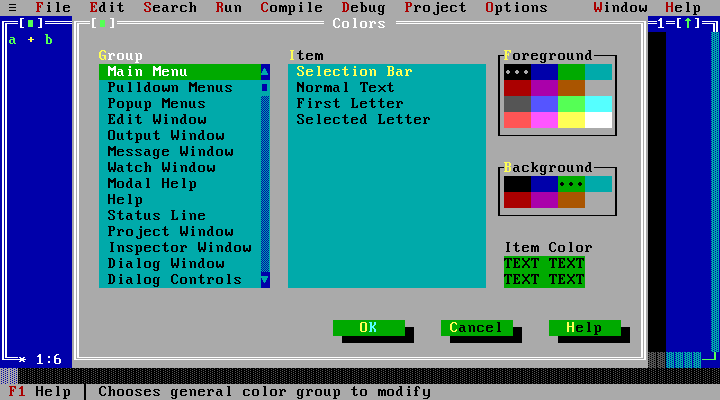
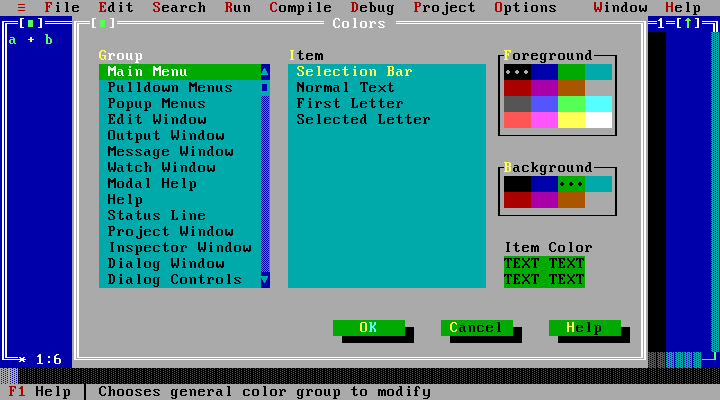
fix(ide): align menu captions with the reference grid (#28)
Aligns the menu bar's captions, selection regions, pointer targets and System
hotkey color with the independently transcribed original row. Popup origins and
the agreed 720x400, 9x16 target are retained.

Closes #27.

Changed region(s): [[0.0, 0.0, 0.7639, 0.03]]

diff --git a/src/ide/application.ts b/src/ide/application.ts
@@ -636,26 +636,7 @@ export class Application {
     } else {
       b.fill(0, 1, b.cols, b.rows - 2, '░', this.attr('desktop', 0x71));
       for (const window of this.windows) this.drawWindow(window, window === this.active);
-      b.fill(0, 0, b.cols, 1, ' ', this.attr('menu', 0x70));
-      menus.forEach((menu, index) => {
-        const selected =
-          this.menuStack[0]?.top === index ||
-          (this.menuFocused && this.menuStack.length === 0 && this.menuIndex === index);
-        const x = this.menuX(index);
-        const width = plain(menu.label).length + 2;
-        const attr = this.attr(selected ? 'selectedMenu' : 'menu', selected ? 0x20 : 0x70);
-        if (selected) b.fill(x, 0, width, 1, ' ', attr);
-        this.hotText(
-          x + 1,
-          0,
-          menu.label,
-          attr,
-          this.attr(
-            selected ? 'mainMenuSelectedLetter' : 'mainMenuFirstLetter',
-            selected ? 0x24 : 0x74,
-          ),
-        );
-      });
+      this.drawMenuBar();
       b.fill(0, b.rows - 1, b.cols, 1, ' ', this.attr('status', 0x70));
       let status = '~F1~ Help  ~F2~ Save  ~F3~ Open  ~Alt-F9~ Compile  ~F9~ Make  ~F10~ Menu';
       const selected = this.menuStack.at(-1);
@@ -986,6 +967,32 @@ export class Application {
     return index >= 9
       ? Math.max(menus[index].x, this.buffer.cols - (index === 9 ? 15 : 7))
       : menus[index].x;
+  }
+  private menuBarX(index: number): number {
+    // The original left-hand captions start one cell after their popup origin.
+    return this.menuX(index) + (index < 9 ? 1 : 0);
+  }
+  private drawMenuBar(): void {
+    const b = this.buffer;
+    b.fill(0, 0, b.cols, 1, ' ', this.attr('menu', 0x70));
+    menus.forEach((menu, index) => {
+      const selected =
+        this.menuStack[0]?.top === index ||
+        (this.menuFocused && this.menuStack.length === 0 && this.menuIndex === index);
+      const x = this.menuBarX(index);
+      const attr = this.attr(selected ? 'selectedMenu' : 'menu', selected ? 0x20 : 0x70);
+      if (selected) b.fill(x, 0, plain(menu.label).length + 2, 1, ' ', attr);
+      this.hotText(
+        x + 1,
+        0,
+        menu.label,
+        attr,
+        this.attr(
+          selected ? 'mainMenuSelectedLetter' : 'mainMenuFirstLetter',
+          selected ? 0x24 : 0x74,
+        ),
+      );
+    });
   }
   private openMenu(index: number): void {
     this.menuIndex = (index + menus.length) % menus.length;
@@ -3263,7 +3270,7 @@ export class Application {
     if (y === 0) {
       let selected = -1;
       menus.forEach((menu, index) => {
-        if (x >= this.menuX(index) && x < this.menuX(index) + plain(menu.label).length + 2)
+        if (x >= this.menuBarX(index) && x < this.menuBarX(index) + plain(menu.label).length + 2)
           selected = index;
       });
       if (selected >= 0) this.openMenu(selected);

diff --git a/tests/unit/shell-golden.test.ts b/tests/unit/shell-golden.test.ts
@@ -1,3 +1,4 @@
+import { readFileSync } from 'node:fs';
 import { describe, expect, it } from 'vitest';
 import { CellBuffer } from '../../src/engine/cell-buffer';
 import { Application } from '../../src/ide/application';
@@ -13,21 +14,25 @@ interface MenuSnapshot {
   width: number;
 }
 
-function screen(): {
+function screen(cols = 80): {
   buffer: CellBuffer;
   shell: {
     menuStack: MenuSnapshot[];
     openMenu(index: number): void;
     drawMenu(menu: MenuSnapshot): void;
+    drawMenuBar(): void;
     drawDialog(dialog: unknown): void;
   };
 } {
-  const buffer = new CellBuffer(80, 25);
-  buffer.fill(0, 0, 80, 25, '░', 0x71);
+  const buffer = new CellBuffer(cols, 25);
+  buffer.fill(0, 0, cols, 25, '░', 0x71);
   // Exercise the real drawing methods without starting storage, workers or a DOM.
   const shell = Object.assign(Object.create(Application.prototype), {
     buffer,
     settings: structuredClone(defaultSettings),
+    menuStack: [],
+    menuFocused: false,
+    menuIndex: 1,
   });
   return { buffer, shell };
 }
@@ -48,6 +53,31 @@ function cells(buffer: CellBuffer): string {
 }
 
 describe('actual shell cell contracts', () => {
+  it('matches the independently transcribed original File-selected menu bar', () => {
+    const reference = JSON.parse(
+      readFileSync(new URL('./fixtures/golden/menu-bar.cells.json', import.meta.url), 'utf8'),
+    ) as { text: string; attributes: number[] };
+    const { buffer, shell } = screen();
+    shell.openMenu(1);
+    shell.drawMenuBar();
+    expect(buffer.chars.slice(0, 80).join('')).toBe(reference.text);
+    expect([...buffer.attrs.slice(0, 80)]).toEqual(reference.attributes);
+    // A caption's left margin does not move its popup frame or item text.
+    shell.drawMenu(shell.menuStack[0]);
+    expect(shell.menuStack[0].x).toBe(3);
+    expect(buffer.get(4, 1)?.ch).toBe('┌');
+    expect(buffer.get(6, 2)?.ch).toBe('N');
+  });
+
+  it('retains the right-aligned Window and Help captions in a wider grid', () => {
+    const { buffer, shell } = screen(100);
+    shell.drawMenuBar();
+    expect(buffer.get(2, 0)).toEqual({ ch: '≡', attr: 0x74 });
+    expect(buffer.get(5, 0)).toEqual({ ch: 'F', attr: 0x74 });
+    expect(buffer.get(86, 0)).toEqual({ ch: 'W', attr: 0x74 });
+    expect(buffer.get(94, 0)).toEqual({ ch: 'H', attr: 0x74 });
+  });
+
   it('retains the File menu character grid and attribute bytes', async () => {
     const { buffer, shell } = screen();
     shell.openMenu(1);

diff --git a/tests/e2e/shell.spec.ts b/tests/e2e/shell.spec.ts
@@ -220,7 +220,52 @@ test('applies independent symbol and menu colours from the Colors dialog', async
       [x, y, ...expected],
     );
   await expect.poll(() => hasColour(3, 2, [255, 255, 255])).toBe(true);
-  await expect.poll(() => hasColour(5, 0, [0, 0, 170])).toBe(true);
+  await expect.poll(() => hasColour(6, 0, [0, 0, 170])).toBe(true);
+});
+
+test('places reference menu captions on their cells and opens File from its right margin', async ({
+  page,
+}) => {
+  await page.setViewportSize({ width: 800, height: 500 });
+  await shellReady(page);
+  const canvas = page.getByRole('img', { name: /VGA desktop/ });
+  const atlasResponse = await page.request.get('/fonts/Px437_IBM_VGA_9x16.atlas.json');
+  const atlas = (await atlasResponse.json()) as { glyphs: number[][] };
+  const foregroundMask = (column: number) =>
+    canvas.evaluate((element, x) => {
+      const context = (element as HTMLCanvasElement).getContext('2d');
+      if (!context) throw new Error('Canvas 2D is unavailable');
+      const pixels = context.getImageData(x * 9, 0, 9, 16).data;
+      return Array.from({ length: 144 }, (_, index) =>
+        pixels[index * 4] === 170 && pixels[index * 4 + 1] === 0 && pixels[index * 4 + 2] === 0
+          ? 1
+          : 0,
+      );
+    }, column);
+  for (const [column, code] of [
+    [2, 0xf0],
+    [5, 0x46],
+  ]) {
+    await expect
+      .poll(() => foregroundMask(column))
+      .toEqual(
+        atlas.glyphs[code].flatMap((row) => Array.from({ length: 9 }, (_, x) => (row >> x) & 1)),
+      );
+  }
+  const rect = await canvas.boundingBox();
+  if (!rect) throw new Error('Canvas is missing');
+  await page.mouse.click(rect.x + 9 * 9 + 2, rect.y + 2);
+  await expect
+    .poll(() =>
+      canvas.evaluate((element) => {
+        const context = (element as HTMLCanvasElement).getContext('2d');
+        if (!context) throw new Error('Canvas 2D is unavailable');
+        return [...context.getImageData(9 * 9, 0, 1, 1).data];
+      }),
+    )
+    .toEqual([0, 170, 0, 255]);
+  await page.keyboard.press('n');
+  await expect(page.getByTestId('editor')).toHaveValue('');
 });
 
 test('suppresses dialog shadows in monochrome mode', async ({ page }) => {

diff --git a/src/ide/menus.ts b/src/ide/menus.ts
@@ -24,7 +24,7 @@ const unavailable = (label: string): MenuItem =>
 
 export const menus: Menu[] = [
   {
-    label: '≡',
+    label: '~≡~',
     x: 0,
     items: [
       item('Repaint desktop', 'repaint'),

diff --git a/docs/implementation-status.md b/docs/implementation-status.md
@@ -25,7 +25,7 @@ commands may use simplified interactions rather than complete Turbo parity.
 ## Verification record
 
 - Whole-project lint and strict TypeScript checks pass.
-- All **48 unit tests** pass locally, including the new reference palettes,
+- All **50 unit tests** pass locally, including the new reference palettes,
   legacy color preferences and independent window roles. Coverage is measured
   separately for the configured scope; it does not cover the entire IDE.
 - The production build and PWA generation pass. Production preview applies the
@@ -76,6 +76,21 @@ COOP/COEP headers and the same application bundle as the verified preview.
 All five Chromium runtime smoke checks also pass on the production origin
 (49.6 seconds total): Python execution, UTF-8 input, infinite-loop recovery,
 debugger evaluation/resume and Stop during input/debugger waits.
+
+PR #26 replaced repeated Ubuntu browser-library downloads with the official,
+version-matched Playwright image pinned by digest. It runs as the image's
+non-root browser user, retaining Node 24, pnpm 12.15.0, all three test engines,
+required checks, token permissions and the 30-minute ceiling. All 123 browser
+cases passed in the corrected CI setup. PR #19's artifact action update then
+passed all checks and was merged with an explicit attribution-free message.
+
+PR #24 passed all **129 browser cases**, the other required jobs, CodeQL and
+Pages on its final combined revision and was merged as `54e0df4`. Production
+serves the new palette bundle with HTTP 200 and isolation headers. All **eight
+production Chromium smoke cases** pass (37.9 seconds): the five runtime checks
+above plus independent Colors choices, cancellation/persistence and keyboard/
+pointer interaction. The menu-row correction has 15 local browser checks across
+the three engines; its complete CI suite remains required before merge.
 
 The owner approved a [private PyTurbo board](https://github.com/users/abhay-yemekar/projects/1).
 It is configured with Backlog, Ready, In progress, In review and Done, imports

diff --git a/tests/unit/fixtures/golden/README.md b/tests/unit/fixtures/golden/README.md
@@ -1,13 +1,13 @@
 # Shell implementation cell contracts
 
-These fixtures were captured from PyTurbo's actual File-menu and Open-dialog
+The text fixtures were captured from PyTurbo's actual File-menu and Open-dialog
 drawing methods on 27 October 2026 and inspected as text/attribute grids. They
 preserve the current implementation against unintended changes.
 
-They are **not** transcriptions of the original Turbo C++ IDE and are **not**
+Those two text fixtures are **not** transcriptions of the original Turbo C++ IDE and are **not**
 owner-approved fidelity references. The original-IDE comparison remains open.
 
-Each file contains a provenance line followed by 25 pairs of rows: 80 Unicode
+Each text file contains a provenance line followed by 25 pairs of rows: 80 Unicode
 cell characters, then their 80 hexadecimal VGA attribute bytes. Shadows retain
 the underlying desktop characters and change their attributes to `08`.
 
@@ -19,3 +19,11 @@ pnpm exec vitest run tests/unit/shell-golden.test.ts --update
 
 Do not replace these with Borland screenshots or claim that a passing fixture
 establishes exact Turbo C++ geometry, palette defaults, or interaction behavior.
+
+`menu-bar.cells.json` is separate: its single row was independently transcribed
+from the original File-selected menu bar on 27 October 2026. Pixel probes verify
+the caption columns and foreground/background colors. Blank-cell foreground
+uses the menu palette. This is a text/attribute contract, not an owner-approved
+full-screen bitmap baseline; the reference 8×16 and agreed 9×16 fonts differ.
+Review this reference against the source rather than regenerating it from the
+implementation.

diff --git a/docs/fidelity-status.md b/docs/fidelity-status.md
@@ -117,6 +117,25 @@ shell/editor browser cases pass across Chromium, Firefox and Playwright WebKit.
 After the final picker-frame correction, all nine targeted Colors cases pass
 again across those engines. The PR must also pass the complete runtime suite.
 
+## Menu-bar row comparison
+
+Independent pixel probes establish the first-glyph columns of the original
+menu bar: System 2, File 5, Edit 11, Search 17, Run 25, Compile 30, Debug 39,
+Project 46, Options 55, Window 66 and Help 74. The left captions, selection
+regions and pointer targets now follow those cells. The System glyph uses the
+hotkey color. Popup origins remain separate: File's outer blank column is 3,
+its frame is at 4, and item text starts at 6.
+
+The independently transcribed `menu-bar.cells.json` verifies that row's text and
+VGA attributes. The earlier File-menu and Open-dialog whole-screen fixtures
+remain implementation contracts. Neither the single row nor those fixtures
+certifies all menus, glyphs, dialogs or original interaction behavior.
+
+The correction passes local lint, strict typecheck, 50 unit tests and the
+production build. Fifteen browser cases pass across the three engines for the
+reference caption cells, File's pointer boundary, color preferences and native
+720×400/2×/3× scaling. Full PR CI is a separate required gate.
+
 ## Reference comparison still required
 
 Capture original IDE screens privately; the plan excludes Borland screenshots
